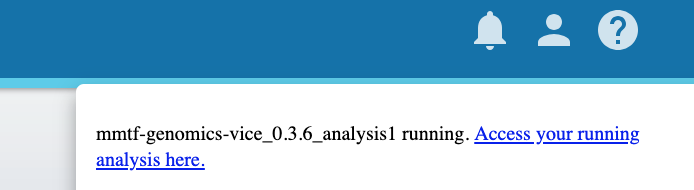
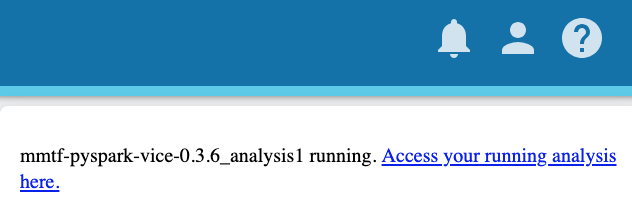
updated documentation

Changed region(s): [[0.0, 0.3947, 1.0, 1.0], [0.6614, 0.0526, 0.962, 0.2895]]

diff --git a/docs/vice_instructions.md b/docs/vice_instructions.md
@@ -1,17 +1,17 @@
-# How to Run mmtf-genomics on CyVerse/VICE
+# How to Run mmtf-pyspark on CyVerse/VICE
 
-After clicking the [![Vice](vice_badge.png)](https://de.cyverse.org/de/?type=apps&app-id=ad36b1e4-2dae-11e9-af23-008cfa5ae621&system-id=de) button, follow these steps to launch Jupyter Lab, run your analyses, and save your results.
+After clicking the [![Vice](vice_badge.png)](https://de.cyverse.org/de/?type=apps&app-id=420b82f4-2747-11e9-9ee3-008cfa5ae621&system-id=de) button, follow these steps to launch Jupyter Lab, run your analyses, and save your results.
 
 See also the [Discovery Environment Guide](https://learning.cyverse.org/projects/discovery-environment-guide/en/latest/) for more details.
 
 | | |
 |:-- |:-- |
-| <img class="tool-thumb" style="border-style: solid; border-width: 1px;" src="https://raw.githubusercontent.com/sbl-sdsc/mmtf-genomics/master/docs/vice_step1.png" width="200" /> | Register for a free account or go to log in page. |
-| <img class="tool-thumb" style="border-style: solid; border-width: 1px;" src="https://raw.githubusercontent.com/sbl-sdsc/mmtf-genomics/master/docs/vice_step2.png" width="200" /> | Log in with your CyVerse ID. |
-| <img class="tool-thumb" style="border-style: solid; border-width: 1px;" src="https://raw.githubusercontent.com/sbl-sdsc/mmtf-genomics/master/docs/vice_step3.png" width="200" /> | On the panel *mmtf-genomics-vice*, click **Launch Analysis**. |
-| <img class="tool-thumb" style="border-style: solid; border-width: 1px;" src="https://raw.githubusercontent.com/sbl-sdsc/mmtf-genomics/master/docs/vice_step4.png" width="200" /> | Wait for a notification to show up in to top right corner (*alarm bell*), then click **Access your running analysis here**.  |
-| <img class="tool-thumb" style="border-style: solid; border-width: 1px;" src="https://raw.githubusercontent.com/sbl-sdsc/mmtf-genomics/master/docs/vice_step5.png" width="200" /> | The launch panel appears. It may take several minutes for the application to launch.   |
-| <img class="tool-thumb" style="border-style: solid; border-width: 1px;" src="https://raw.githubusercontent.com/sbl-sdsc/mmtf-genomics/master/docs/vice_step6.png" width="200" /> | Jupyter Lab has launched. Double-click the **mmtf-genomics** folder and navigate to any of the notebooks. |
-| <img class="tool-thumb" style="border-style: solid; border-width: 1px;" src="https://raw.githubusercontent.com/sbl-sdsc/mmtf-genomics/master/docs/vice_step7.png" width="200" /> | Double-click on a notebook to launch it.  |
-| <img class="tool-thumb" style="border-style: solid; border-width: 1px;" src="https://raw.githubusercontent.com/sbl-sdsc/mmtf-genomics/master/docs/vice_step8.png" width="200" /> | When finished with your work, click **Refresh** in the **Analyses** panel, then click on the **3-dot** menu button on the far right. Click **Complete and Save Outputs**. |
-| <img class="tool-thumb" style="border-style: solid; border-width: 1px;" src="https://raw.githubusercontent.com/sbl-sdsc/mmtf-genomics/master/docs/vice_step9.png" width="200" /> | To cancel an analysis, click the **Analyses** menu button and choose **cancel** and **delete** to delete an analysis. |
+| <img class="tool-thumb" style="border-style: solid; border-width: 1px;" src="https://raw.githubusercontent.com/sbl-sdsc/mmtf-pyspark/master/docs/vice_step1.png" width="200" /> | Register for a free account or go to log in page. |
+| <img class="tool-thumb" style="border-style: solid; border-width: 1px;" src="https://raw.githubusercontent.com/sbl-sdsc/mmtf-pyspark/master/docs/vice_step2.png" width="200" /> | Log in with your CyVerse ID. |
+| <img class="tool-thumb" style="border-style: solid; border-width: 1px;" src="https://raw.githubusercontent.com/sbl-sdsc/mmtf-pyspark/master/docs/vice_step3.png" width="200" /> | On the panel *mmtf-pyspark-vice*, click **Launch Analysis**. |
+| <img class="tool-thumb" style="border-style: solid; border-width: 1px;" src="https://raw.githubusercontent.com/sbl-sdsc/mmtf-pyspark/master/docs/vice_step4.png" width="200" /> | Wait for a notification to show up in to top right corner (*alarm bell*), then click **Access your running analysis here**.  |
+| <img class="tool-thumb" style="border-style: solid; border-width: 1px;" src="https://raw.githubusercontent.com/sbl-sdsc/mmtf-pyspark/master/docs/vice_step5.png" width="200" /> | The launch panel appears. It may take several minutes for the application to launch.   |
+| <img class="tool-thumb" style="border-style: solid; border-width: 1px;" src="https://raw.githubusercontent.com/sbl-sdsc/mmtf-pyspark/master/docs/vice_step6.png" width="200" /> | Jupyter Lab has launched. Double-click the **GettingStarted** notebookd or the  **mmtf-pyspark** folder and navigate to any of the notebooks. |
+| <img class="tool-thumb" style="border-style: solid; border-width: 1px;" src="https://raw.githubusercontent.com/sbl-sdsc/mmtf-pyspark/master/docs/vice_step7.png" width="200" /> | Double-click on a notebook to launch it.  |
+| <img class="tool-thumb" style="border-style: solid; border-width: 1px;" src="https://raw.githubusercontent.com/sbl-sdsc/mmtf-pyspark/master/docs/vice_step8.png" width="200" /> | When finished with your work, click **Refresh** in the **Analyses** panel, then click on the **3-dot** menu button on the far right. Click **Complete and Save Outputs**. |
+| <img class="tool-thumb" style="border-style: solid; border-width: 1px;" src="https://raw.githubusercontent.com/sbl-sdsc/mmtf-pyspark/master/docs/vice_step9.png" width="200" /> | To cancel an analysis, click the **Analyses** menu button and choose **cancel** and **delete** to delete an analysis. |
